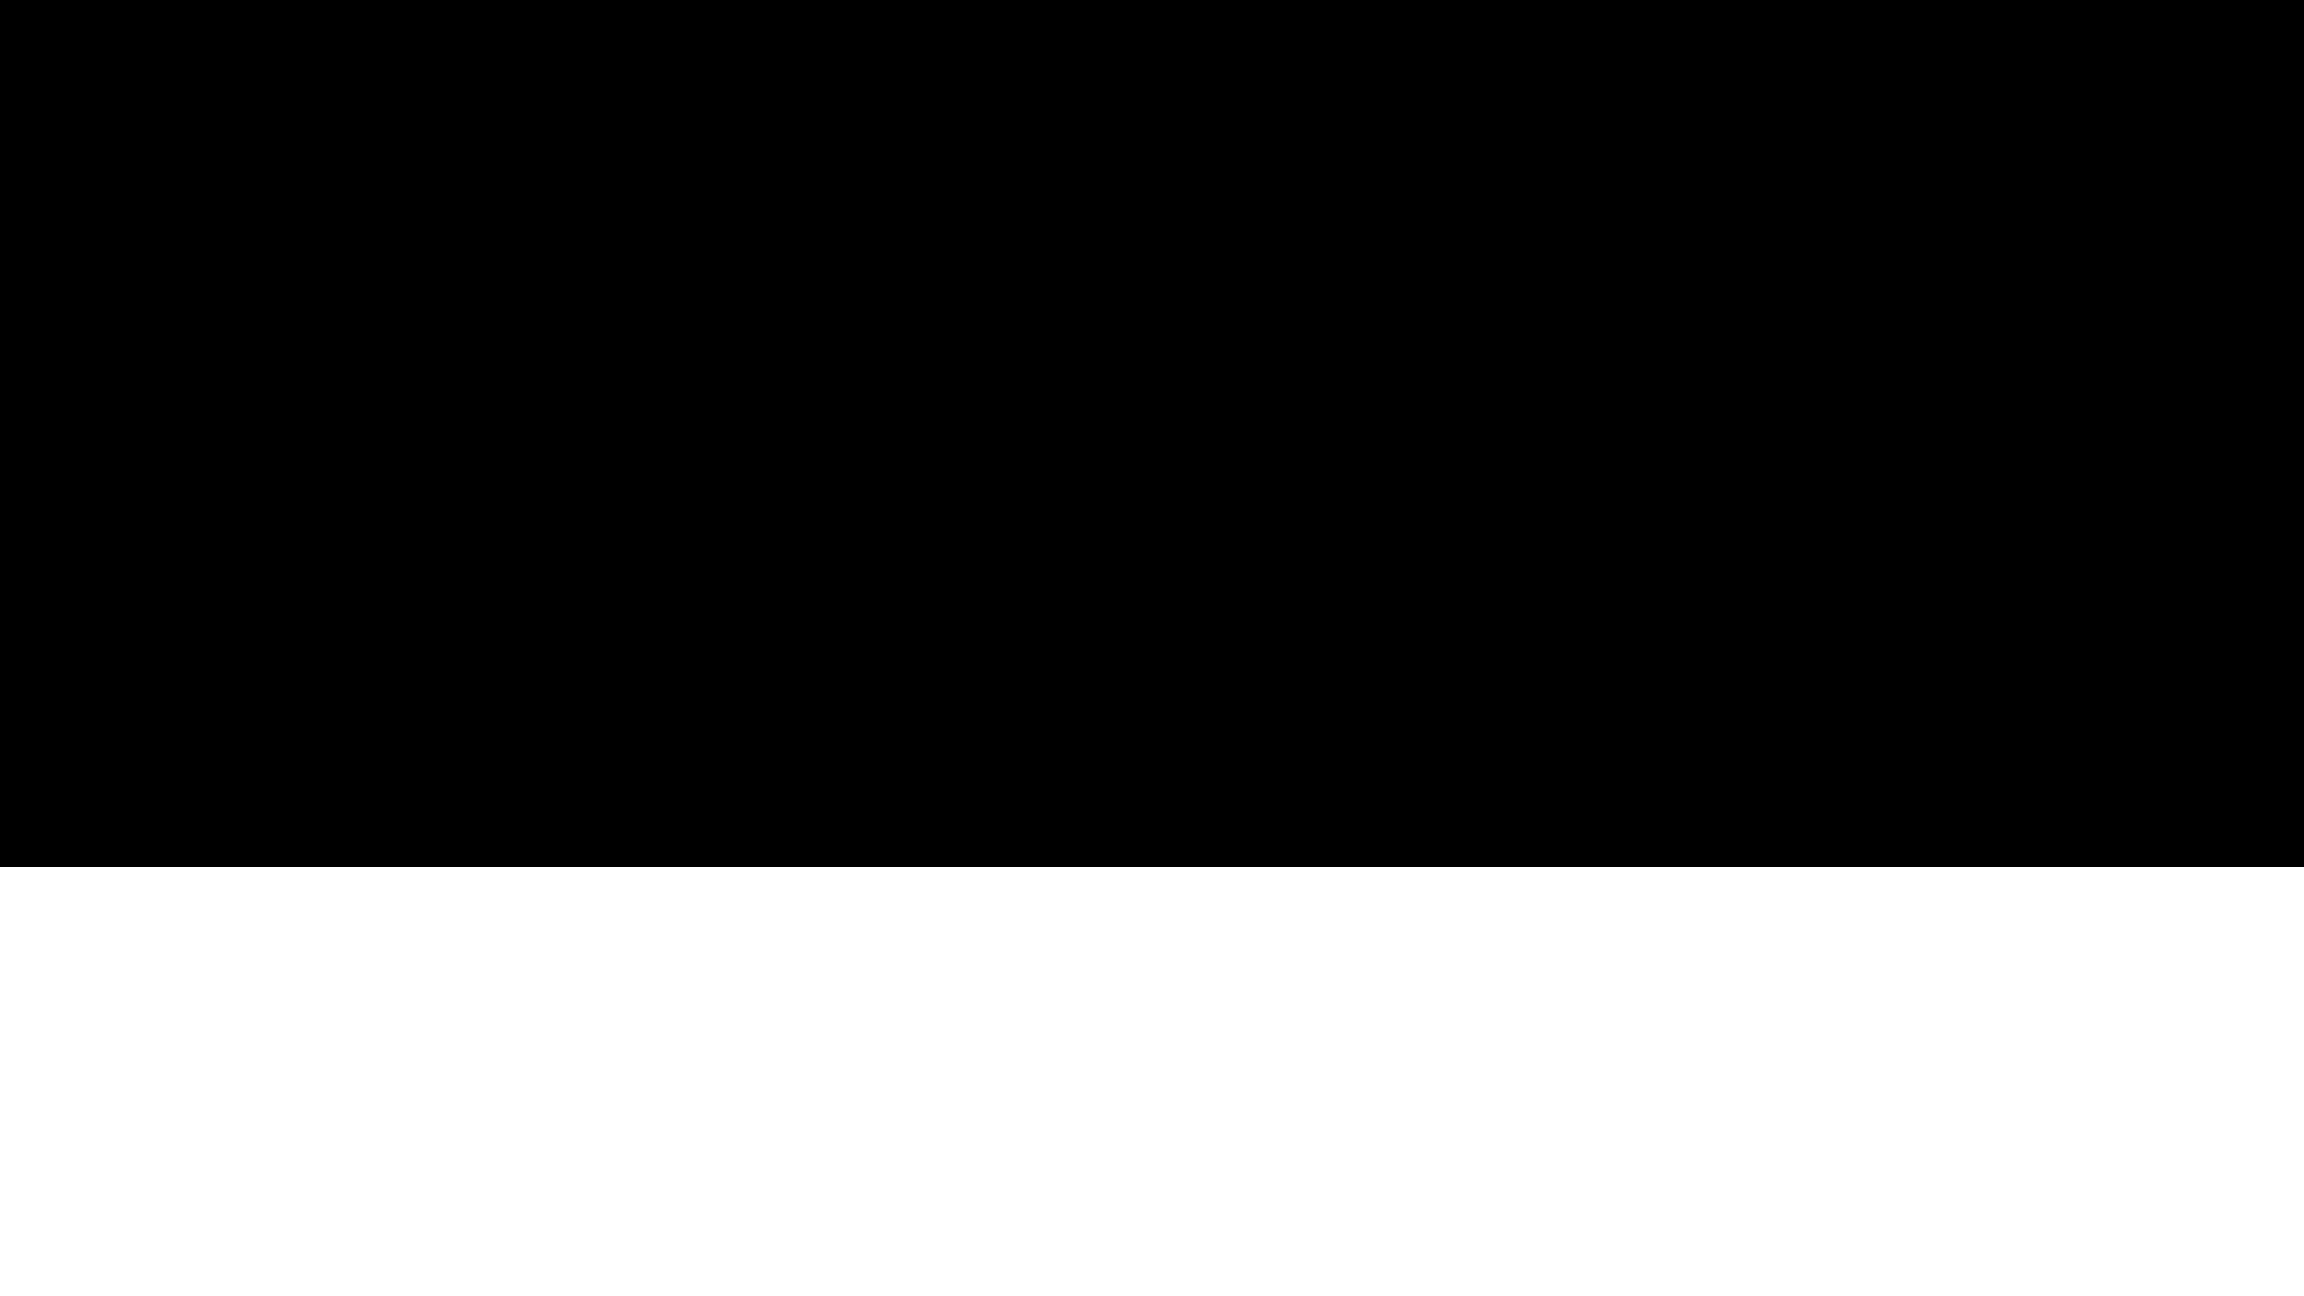
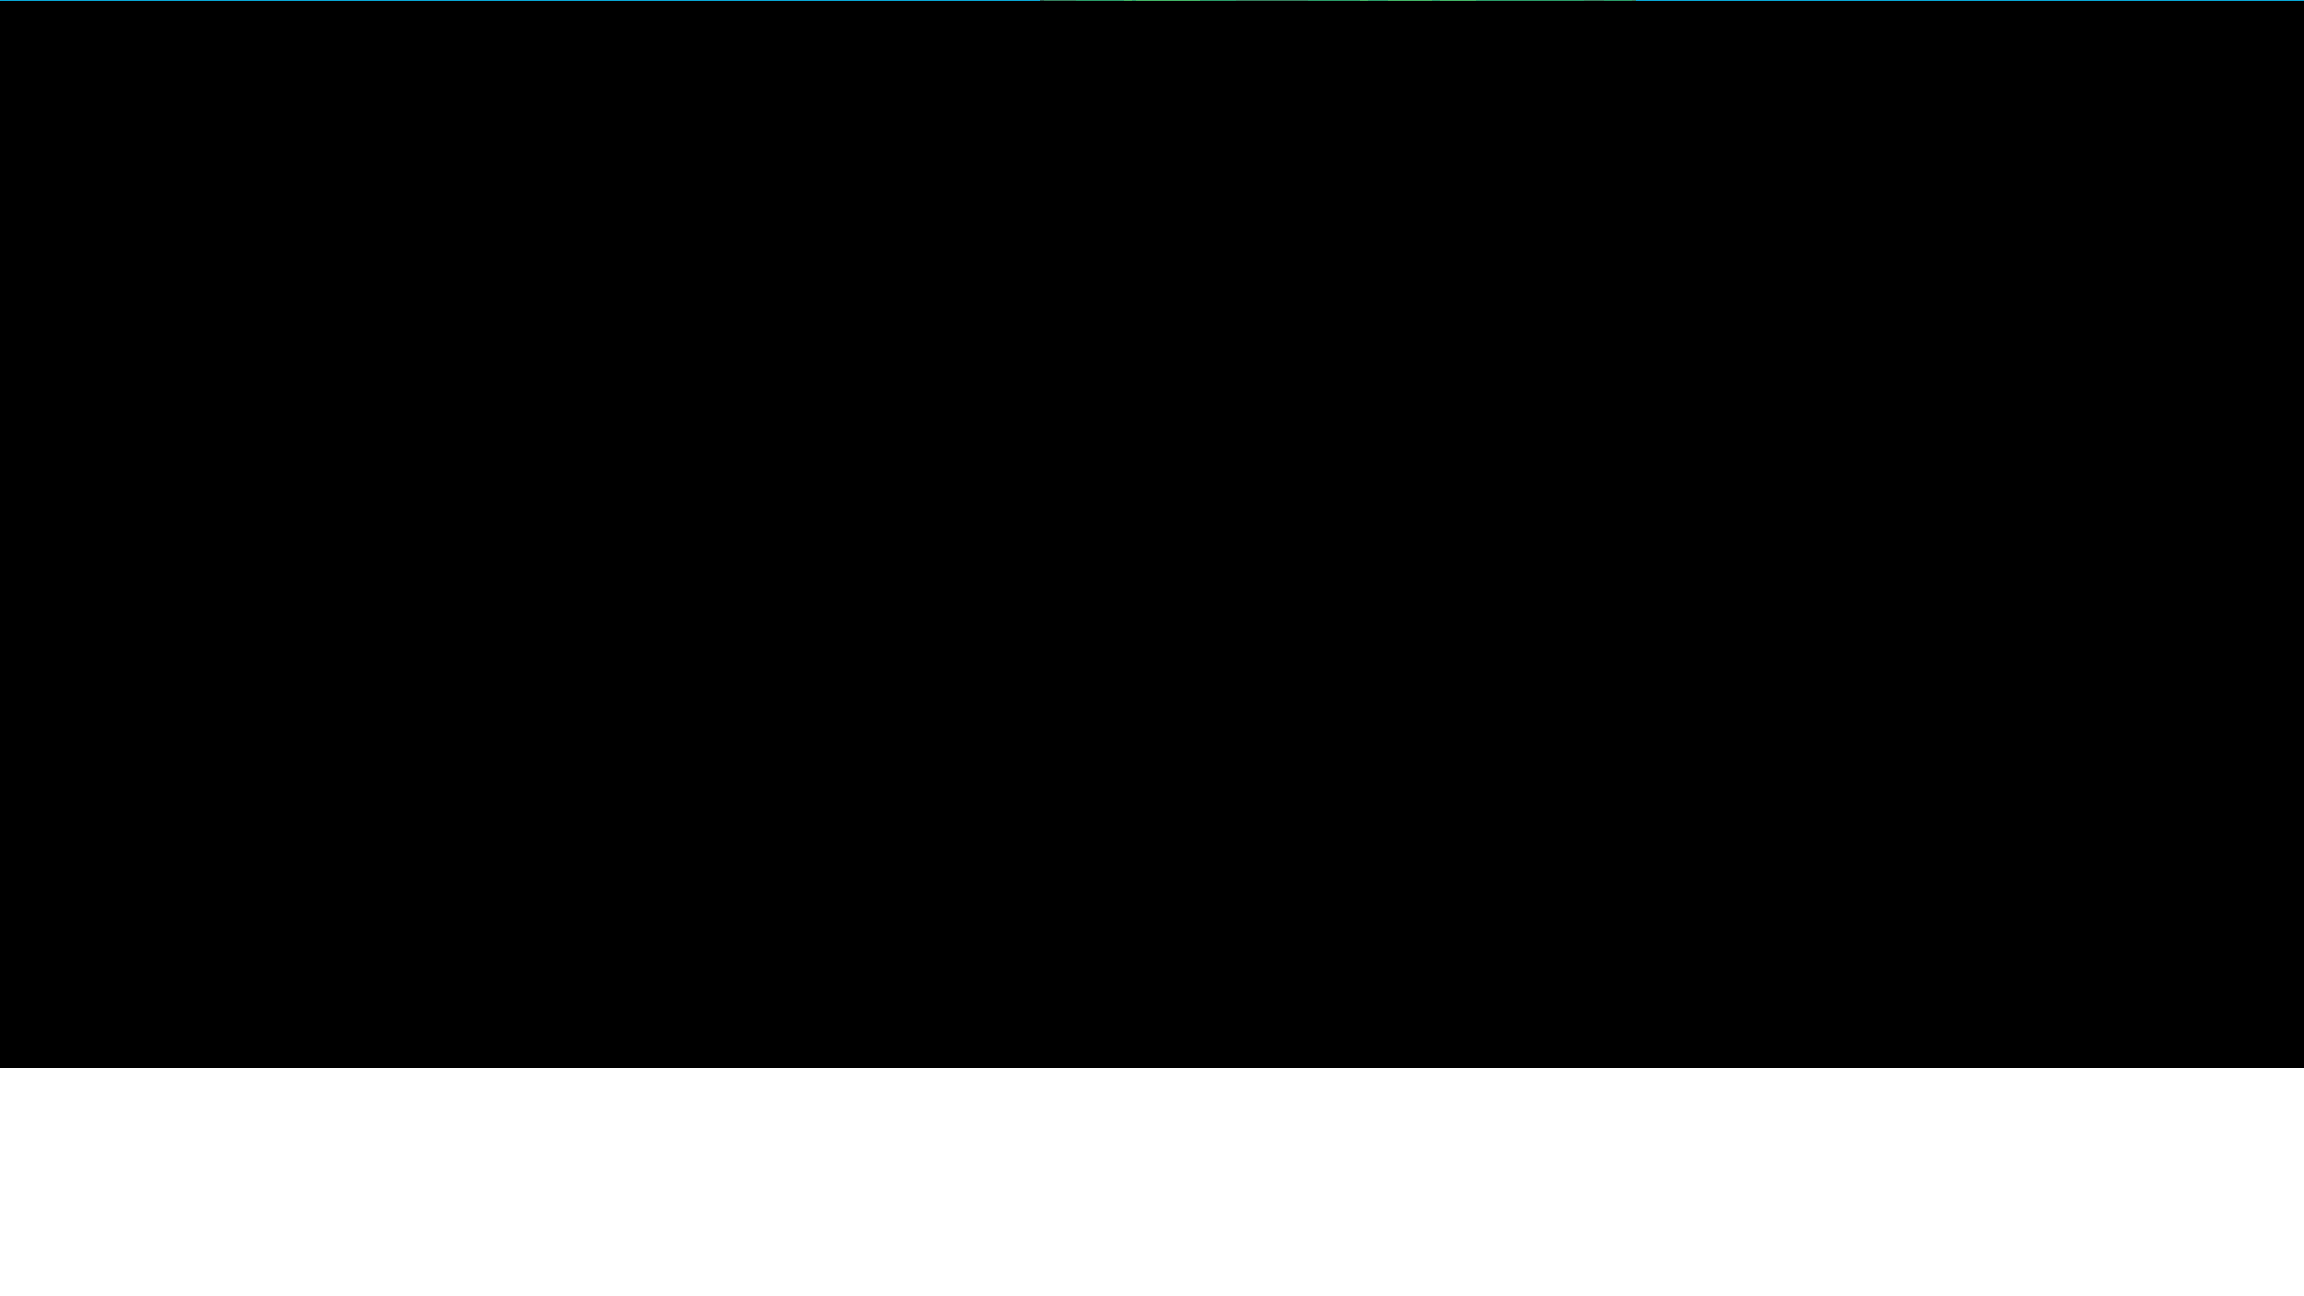
feat(player y obstacle): Agregadas colisiones con objetos y otros cambios sobre colisiones.

Changed region(s): [[0.0, 0.6481, 1.0, 0.8333]]

diff --git a/roguelike_project/entities/player.py b/roguelike_project/entities/player.py
@@ -1,5 +1,6 @@
 import pygame
 from utils.loader import load_image
+from config import DEBUG
 
 class Player:
     def __init__(self, x, y):
@@ -9,6 +10,9 @@ class Player:
         self.direction = "down"  # dirección inicial
         self.sprites = self.load_sprites()
         self.sprite = self.sprites[self.direction]
+        self.sprite_size = (96, 128)  # Tamaño real del sprite que estás usando
+        self.hitbox = pygame.Rect(self.x + 20, self.y + 96, 56, 28)  # pies
+        self.rect = pygame.Rect(self.x, self.y, *self.sprite_size)
 
     def load_sprites(self):
         directions = [
@@ -21,27 +25,29 @@ class Player:
             sprites[dir] = load_image(path, (96, 128))
         return sprites
 
-    def move(self, dx, dy, collision_mask):
-        if dx == 0 and dy == 0:
-            return  # no se está moviendo, evitar cambio de sprite innecesario
-
-        self.update_direction(dx, dy)  # <--- ACTUALIZA LA DIRECCIÓN
-        self.sprite = self.sprites[self.direction]  # <--- ACTUALIZA EL SPRITE
+    def move(self, dx, dy, collision_mask, obstacles):
+        if dx != 0 or dy != 0:
+            self.update_direction(dx, dy)
+            self.sprite = self.sprites[self.direction]
 
         new_x = self.x + dx * self.speed
         new_y = self.y + dy * self.speed
+        px = new_x + self.sprite_size[0] // 2
+        py = new_y + self.sprite_size[1] - 10  # Punto de los "pies"        
 
-        # Punto central del sprite
-        px = new_x + 16
-        py = new_y + 16
-
-        # Validar que no se sale del mapa
         if 0 <= px < collision_mask.get_width() and 0 <= py < collision_mask.get_height():
             color = collision_mask.get_at((px, py))
-
             if color == pygame.Color(255, 255, 255):  # blanco = caminable
+                future_hitbox = self.hitbox.move(dx * self.speed, dy * self.speed)
+                for obstacle in obstacles:
+                    if future_hitbox.colliderect(obstacle.rect):
+                        return
+
+                # Movimiento válido
                 self.x = new_x
                 self.y = new_y
+                self.hitbox.topleft = (self.x + 20, self.y + 96)
+
 
     def update_direction(self, dx, dy):
         if dx == -1 and dy == -1:
@@ -63,3 +69,6 @@ class Player:
 
     def render(self, screen):
         screen.blit(self.sprite, (self.x, self.y))
+
+        if DEBUG:
+            pygame.draw.rect(screen, (0, 255, 0), self.hitbox, 2)

diff --git a/roguelike_project/core/game.py b/roguelike_project/core/game.py
@@ -1,5 +1,6 @@
 import pygame
 from entities.player import Player
+from entities.obstacle import Obstacle
 from utils.loader import load_image
 
 class Game:
@@ -8,7 +9,11 @@ class Game:
         self.running = True
         self.background = load_image("assets/tiles/floor.png", (1200, 800))
         self.collision_mask = load_image("assets/tiles/floor_collision_mask.png", (1200, 800))
-        self.player = Player(1000, 750)
+        self.player = Player(800, 600)
+        self.obstacles = [
+            Obstacle(300, 700),
+            Obstacle(600, 725),
+        ]
 
     def handle_events(self):
         
@@ -20,7 +25,7 @@ class Game:
         if keys[pygame.K_DOWN]: dy = 1
         if keys[pygame.K_LEFT]: dx = -1
         if keys[pygame.K_RIGHT]: dx = 1
-        self.player.move(dx, dy, self.collision_mask)
+        self.player.move(dx, dy, self.collision_mask, self.obstacles)
 
         for event in pygame.event.get():
             if event.type == pygame.QUIT:
@@ -30,6 +35,8 @@ class Game:
         pass
 
     def render(self):
-        self.screen.blit(self.background, (0, 0))  # dibujar fondo completo
-        self.player.render(self.screen)
+        self.screen.blit(self.background, (0, 0))
+        for obstacle in self.obstacles:
+            obstacle.render(self.screen)
+        self.player.render(self.screen)        
         pygame.display.flip()

diff --git a/roguelike_project/entities/obstacle.py b/roguelike_project/entities/obstacle.py
@@ -1,0 +1,17 @@
+import pygame
+from utils.loader import load_image
+from config import DEBUG
+
+class Obstacle:
+    def __init__(self, x, y, sprite_path="assets/objects/rock.png", size=(64, 64)):
+        self.x = x
+        self.y = y
+        self.rect = pygame.Rect(x + 8, y + 8, 48, 48)
+        self.sprite = load_image(sprite_path, size)
+
+    def render(self, screen):
+        screen.blit(self.sprite, (self.x, self.y))
+
+        if DEBUG:
+            # Dibujar rectángulo de colisión en rojo
+            pygame.draw.rect(screen, (255, 0, 0), self.rect, 2)

diff --git a/roguelike_project/config.py b/roguelike_project/config.py
@@ -1,0 +1,1 @@
+DEBUG = True

diff --git a/docs/prompts/gpt4o/hero2.md b/docs/prompts/gpt4o/hero2.md
@@ -1,0 +1,11 @@
+#### Prompt base --------------------------------------
+
+Crea una hoja de sprites en pixel art 2D de calidad profesional para un videojuego roguelike RPG con vista cenital. La hoja de sprites debe tener exactamente 512x64 píxeles y contener 8 poses de reposo (idle) de un mismo personaje **valquiria**, alineadas horizontalmente. Cada fotograma debe medir 64x64 píxeles y estar centrado en su espacio.
+
+La valquiria debe mantener la misma postura y proporciones en todos los fotogramas, cambiando únicamente la dirección en la que mira. El orden de las direcciones, de izquierda a derecha, es: ABAJO, ARRIBA, IZQUIERDA, DERECHA, ABAJO-IZQUIERDA, ABAJO-DERECHA, ARRIBA-IZQUIERDA, ARRIBA-DERECHA.
+
+Diseña a la valquiria como una guerrera fuerte, de cabello largo y rubio, con un casco alado, armadura ligera con diseños de inspiración nórdica y botas de cuero. Debe portar un **hacha de batalla de doble hoja** en la mano derecha. Usa una paleta de tonos tierra y metálicos, incluyendo plata, bronce y azul apagado.
+
+El estilo debe estar inspirado en el pixel art de alta calidad de juegos clásicos de 16 bits como *Chrono Trigger* o *The Legend of Zelda: A Link to the Past*, con contornos limpios, sombreado adecuado e iluminación consistente.
+
+El fondo debe ser completamente transparente, sin paisajes, suelo ni sombras. Asegúrate de que este recurso esté limpio, listo para usar en el juego y sea visualmente consistente en las 8 direcciones.
